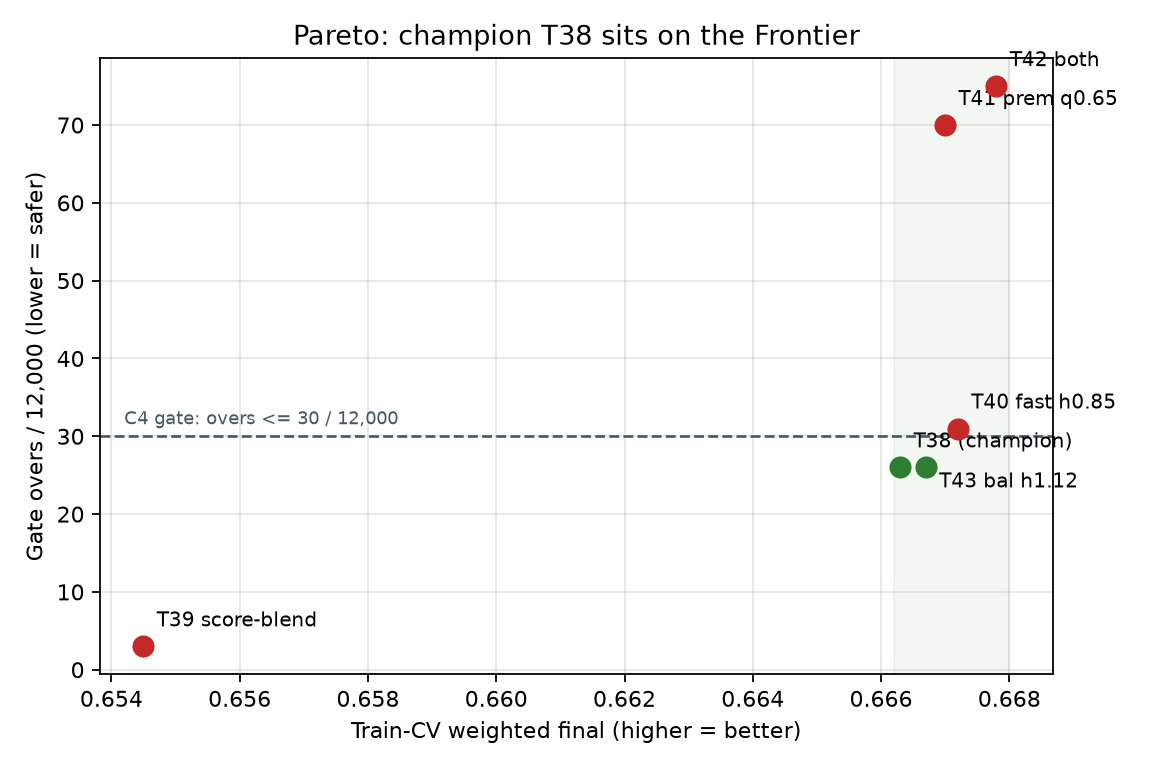
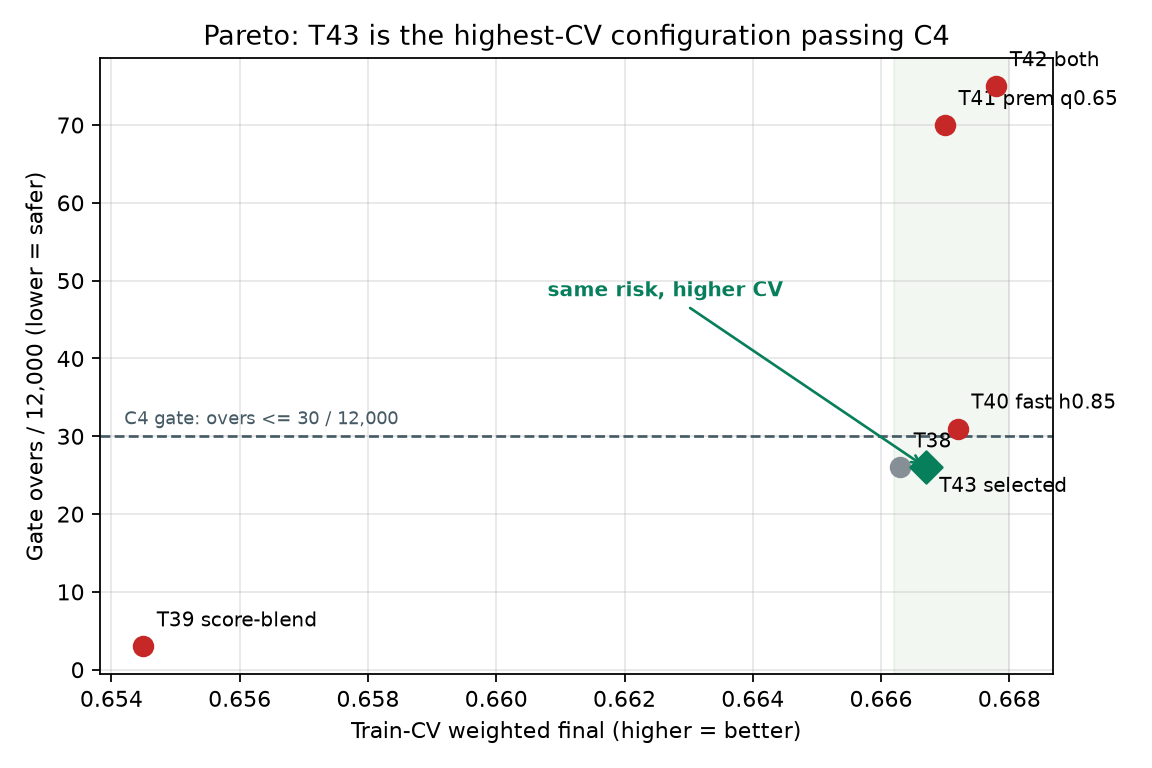
fix(submit): sync pareto figure to t43

diff --git a/experiments/plot_pareto.py b/experiments/plot_pareto.py
@@ -1,10 +1,9 @@
 # SPDX-FileCopyrightText: Copyright 2026 chjnett
 # SPDX-License-Identifier: Apache-2.0
-"""Pareto figure for the report: Train-CV (quality) vs gate stress (risk).
+"""Pareto figure for the report/video: Train-CV quality vs gate stress risk.
 
-Shows that the champion T38 sits on the frontier: every point with higher
-Train-CV exceeds the C4 gate (overs > 30 / 12,000), and the champion is the
-highest-CV config that PASSES the gate.
+T43 strictly improves T38 Train-CV at the same measured gate risk and is the
+highest-CV configuration that passes the complete C4 gate.
     MPLCONFIGDIR=/tmp/mpl PYTHONPATH=src python3 experiments/plot_pareto.py
 """
 
@@ -22,8 +21,8 @@ plt.rcParams["axes.unicode_minus"] = False
 # label -> (Train-CV, gate_overs, passed_C4, marker_label)
 POINTS = [
     # (cv, overs, passed, tag)
-    (0.6663, 26, True, "T38 (champion)"),
-    (0.6667, 26, True, "T43 bal h1.12"),
+    (0.6663, 26, True, "T38"),
+    (0.6667, 26, True, "T43 selected"),
     (0.6672, 31, False, "T40 fast h0.85"),
     (0.6670, 70, False, "T41 prem q0.65"),
     (0.6678, 75, False, "T42 both"),
@@ -34,9 +33,14 @@ POINTS = [
 def main() -> int:
     fig, ax = plt.subplots(figsize=(7.2, 4.8))
     for cv, overs, passed, tag in POINTS:
-        color = "#2e7d32" if passed else "#c62828"
-        ax.scatter(cv, overs, s=80, color=color, zorder=3)
-        dy = -9 if tag == "T43 bal h1.12" else 9
+        if tag == "T43 selected":
+            color, marker, size = "#087f5b", "D", 105
+        elif passed:
+            color, marker, size = "#868e96", "o", 75
+        else:
+            color, marker, size = "#c62828", "o", 75
+        ax.scatter(cv, overs, s=size, color=color, marker=marker, zorder=3)
+        dy = -11 if tag == "T43 selected" else 9
         ax.annotate(tag, (cv, overs), textcoords="offset points",
                     xytext=(6, dy), fontsize=9)
     # C4 boundary
@@ -47,7 +51,16 @@ def main() -> int:
     ax.axvspan(0.6662, 0.6680, color="#2e7d32", alpha=0.06)
     ax.set_xlabel("Train-CV weighted final (higher = better)")
     ax.set_ylabel("Gate overs / 12,000 (lower = safer)")
-    ax.set_title("Pareto: champion T38 sits on the Frontier")
+    ax.annotate(
+        "same risk, higher CV",
+        xy=(0.6667, 26),
+        xytext=(0.6608, 48),
+        arrowprops={"arrowstyle": "->", "color": "#087f5b", "lw": 1.2},
+        fontsize=9,
+        color="#087f5b",
+        weight="bold",
+    )
+    ax.set_title("Pareto: T43 is the highest-CV configuration passing C4")
     ax.grid(True, alpha=0.3)
     fig.tight_layout()
     out = "plan/submission/figures/pareto-frontier.png"

diff --git a/plan/submission/FINAL_CHECKLIST.md b/plan/submission/FINAL_CHECKLIST.md
@@ -57,7 +57,7 @@ SPDX-License-Identifier: Apache-2.0
 - [ ] `figures/model-choices.png`: Balanced `ax31-light 119 / ax31 759` → 실제
       `107 / 771` (`axk1-think 2`)
 - [ ] `figures/champion-progress.png`: T38에서 끝남 → t43 `0.6844` 추가
-- [ ] `figures/pareto-frontier.png`: 제목의 `T38 champion`을 t43 채택 상태로 수정
+- [x] `figures/pareto-frontier.png`: `T38 champion` 표기를 제거하고 t43 채택·C4 통과 상태로 수정
 - [ ] 수정한 모든 그림의 숫자를 `build/demo/report.json`과 한 번 더 대조
 
 ## 4. 영상 — 사용자 작업
